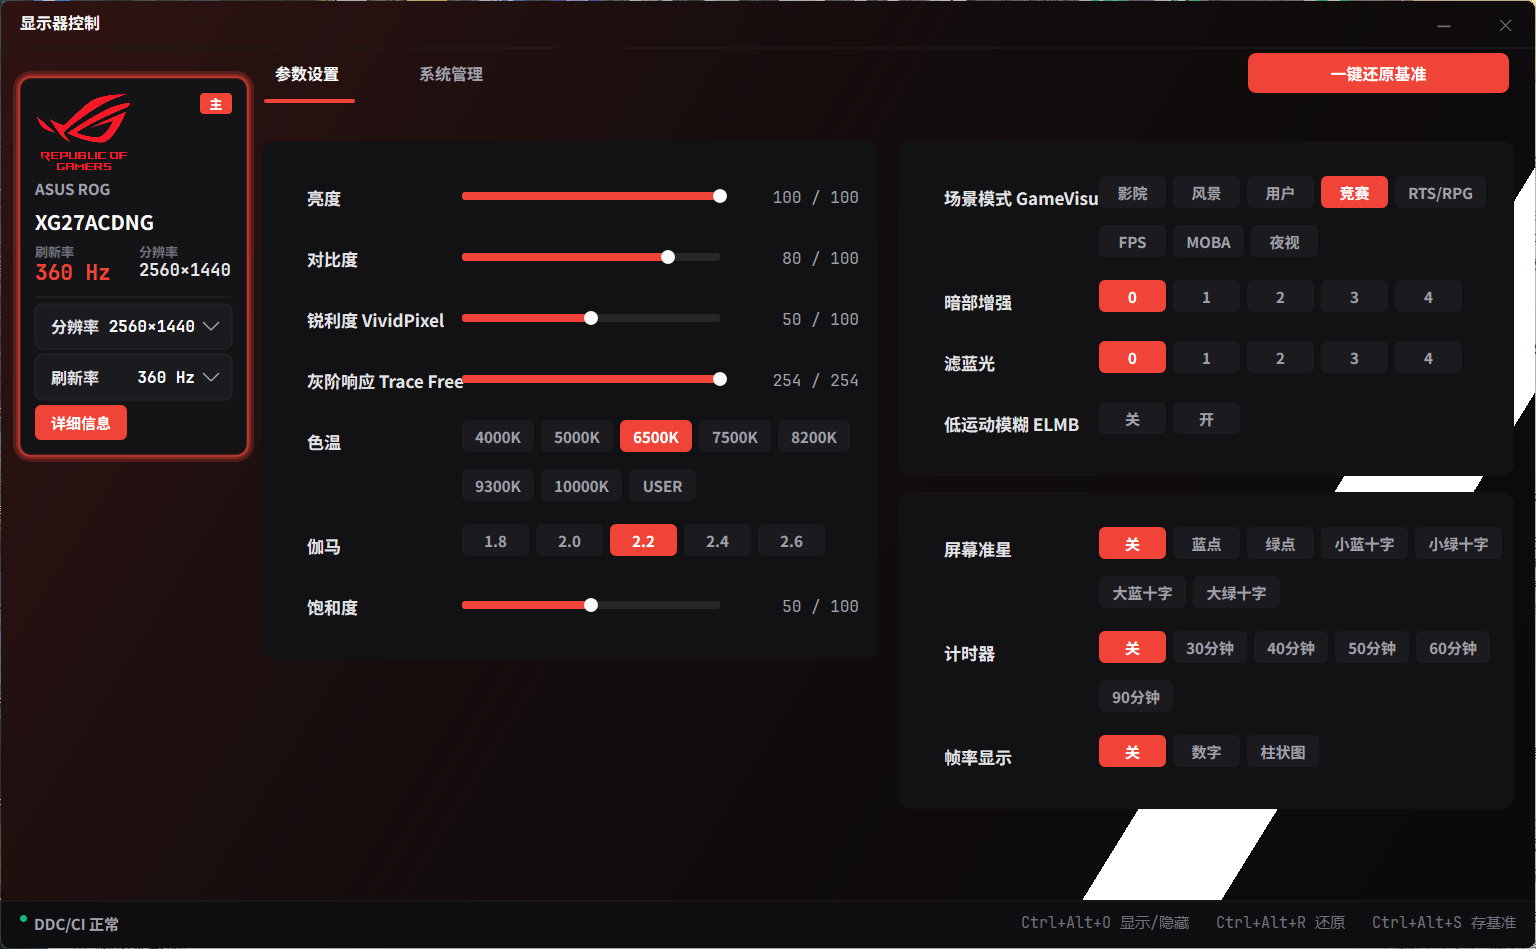
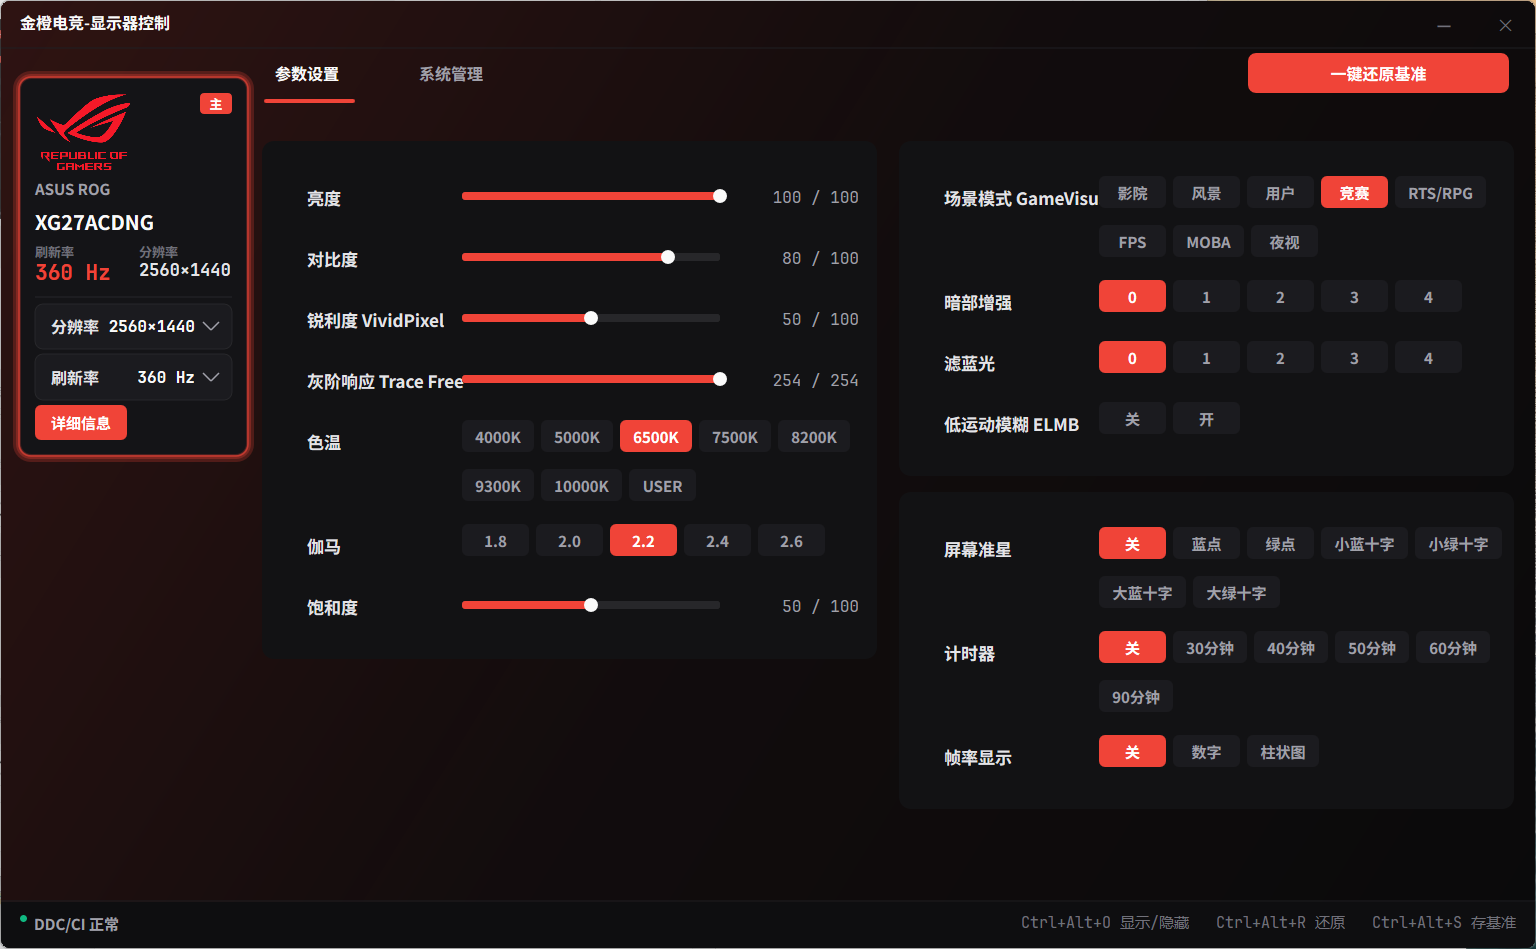
docs: 替换 README 截图为干净实机图，并补充系统管理页

diff --git a/README.md b/README.md
@@ -14,13 +14,13 @@
 - 支持多显示器、换屏自动重识别、托盘常驻、全局热键
 - 部署 = exe + 配置/档案文件，随目录整体拷贝即完成迁移
 
-![华硕 ROG 界面](docs/images/screenshot-asus-rog.png)
+![参数设置页](docs/images/screenshot-asus-rog.png)
 
-**界面实拍（华硕 ROG XG27ACDNG，360Hz 实机运行）**：
-左侧是显示器信息卡片（品牌、型号、分辨率/刷新率、详细信息），
-中间是参数区（亮度、对比度、锐利度、灰阶响应、色温、伽马、饱和度，滑条与档位即调即生效），
-右侧是游戏辅助区（场景模式、暗部增强、滤蓝光、低运动模糊、屏幕准星、计时器、帧率显示），
-右上角是「一键还原基准 / 保存基准」，底部状态栏显示 DDC/CI 连接状态与快捷键。
+**参数设置页**（华硕 ROG XG27ACDNG 实机）：左侧显示器信息，中间亮度/对比度/色温等参数滑条与档位，右侧场景模式、暗部增强、屏幕准星、计时器等游戏辅助。
+
+![系统管理页](docs/images/screenshot-asus-system.png)
+
+**系统管理页**：显示器维护（恢复出厂设置、显示器测试、基准档案）、差分校准向导、软件设置（开机自启、最小化到托盘、强调色）、在线更新与意见反馈。
 
 ---
 
